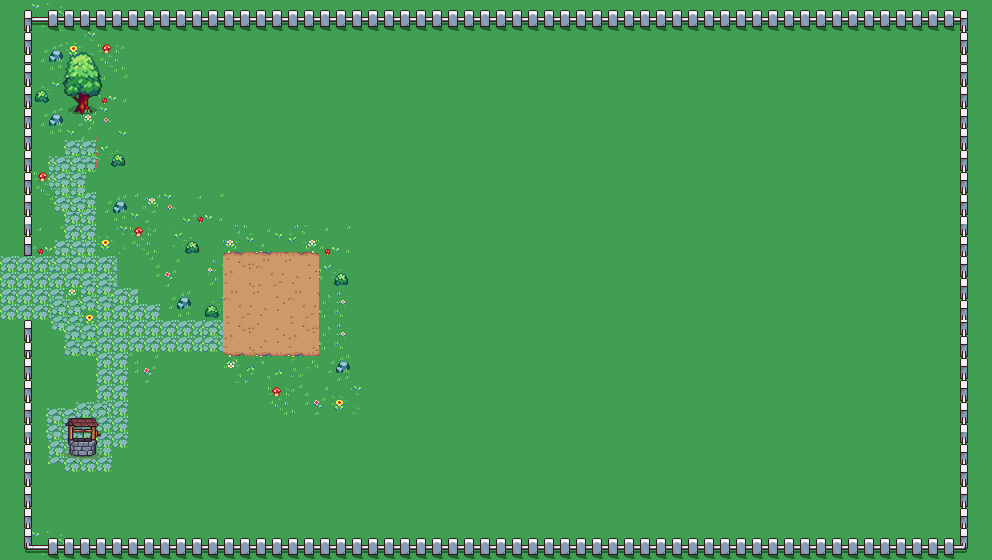
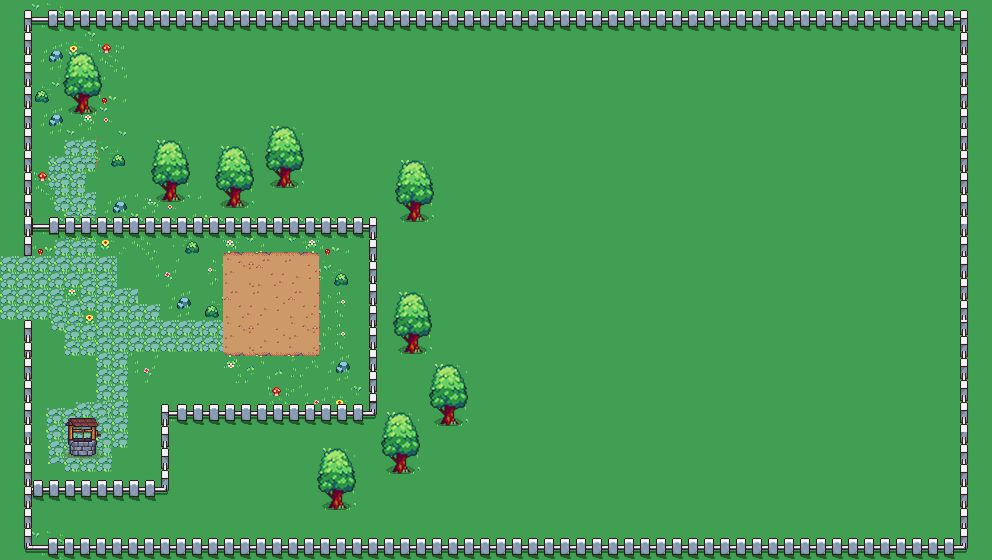
corrigindo mapa da fazenda e colocando colisões

Changed region(s): [[0.0312, 0.2125, 0.4688, 0.9107], [0.375, 0.2732, 0.4375, 0.3946]]

diff --git a/js/OverWorldMap.js b/js/OverWorldMap.js
@@ -1646,6 +1646,93 @@ window.OverworldMaps = {
         // ...restante do mapa...
         walls: {
             //define as coordenadas das colisoes do mapa
+            [utils.asGridCoord(-28,14)] : true,
+            [utils.asGridCoord(-28,13)] : true,
+            [utils.asGridCoord(-27,12)] : true,
+            [utils.asGridCoord(-26,12)] : true,
+            [utils.asGridCoord(-25,12)] : true,
+            [utils.asGridCoord(-24,12)] : true,
+            [utils.asGridCoord(-23,12)] : true,
+            [utils.asGridCoord(-22,12)] : true,
+            [utils.asGridCoord(-21,12)] : true,
+            [utils.asGridCoord(-20,12)] : true,
+            [utils.asGridCoord(-19,12)] : true,
+            [utils.asGridCoord(-18,12)] : true,
+            [utils.asGridCoord(-17,12)] : true,
+            [utils.asGridCoord(-16,12)] : true,
+            [utils.asGridCoord(-15,12)] : true,
+            [utils.asGridCoord(-14,12)] : true,
+            [utils.asGridCoord(-13,12)] : true,
+            [utils.asGridCoord(-12,12)] : true,
+            [utils.asGridCoord(-11,12)] : true,
+            [utils.asGridCoord(-10,12)] : true,
+            [utils.asGridCoord(-9,12)] : true,
+            [utils.asGridCoord(-8,12)] : true,
+            [utils.asGridCoord(-7,12)] : true,
+            [utils.asGridCoord(-6,12)] : true,
+            [utils.asGridCoord(-5,12)] : true,
+
+            [utils.asGridCoord(-6,13)] : true,
+            [utils.asGridCoord(-6,14)] : true,
+            [utils.asGridCoord(-6,15)] : true,
+            [utils.asGridCoord(-6,16)] : true,
+            [utils.asGridCoord(-6,17)] : true,
+            [utils.asGridCoord(-6,18)] : true,
+            [utils.asGridCoord(-6,19)] : true,
+            [utils.asGridCoord(-6,20)] : true,
+            [utils.asGridCoord(-6,21)] : true,
+            [utils.asGridCoord(-6,22)] : true,
+            [utils.asGridCoord(-6,23)] : true,
+            [utils.asGridCoord(-6,24)] : true,
+            [utils.asGridCoord(-6,25)] : true,
+
+            [utils.asGridCoord(-7,24)] : true,
+            [utils.asGridCoord(-8,24)] : true,
+            [utils.asGridCoord(-9,24)] : true,
+            [utils.asGridCoord(-10,24)] : true,
+            [utils.asGridCoord(-11,24)] : true,
+            [utils.asGridCoord(-12,24)] : true,
+            [utils.asGridCoord(-13,24)] : true,
+            [utils.asGridCoord(-14,24)] : true,
+            [utils.asGridCoord(-15,24)] : true,
+            [utils.asGridCoord(-16,24)] : true,
+            [utils.asGridCoord(-17,24)] : true,
+            [utils.asGridCoord(-18,24)] : true,
+            [utils.asGridCoord(-19,24)] : true,
+
+            [utils.asGridCoord(-19,26)] : true,
+            [utils.asGridCoord(-19,27)] : true,
+            [utils.asGridCoord(-19,28)] : true,
+            [utils.asGridCoord(-19,29)] : true,
+
+            [utils.asGridCoord(-20,29)] : true,
+            [utils.asGridCoord(-21,29)] : true,
+            [utils.asGridCoord(-22,29)] : true,
+            [utils.asGridCoord(-23,29)] : true,
+            [utils.asGridCoord(-24,29)] : true,
+            [utils.asGridCoord(-25,29)] : true,
+            [utils.asGridCoord(-26,29)] : true,
+            [utils.asGridCoord(-27,29)] : true,
+            [utils.asGridCoord(-28,29)] : true,
+
+            [utils.asGridCoord(-28,29)] : true,
+            [utils.asGridCoord(-28,28)] : true,
+            [utils.asGridCoord(-28,27)] : true,
+            [utils.asGridCoord(-28,26)] : true,
+            [utils.asGridCoord(-28,25)] : true,
+            [utils.asGridCoord(-28,24)] : true,
+            [utils.asGridCoord(-28,23)] : true,
+            [utils.asGridCoord(-28,22)] : true,
+            [utils.asGridCoord(-28,21)] : true,
+            [utils.asGridCoord(-28,20)] : true,
+            [utils.asGridCoord(-28,19)] : true,
+
+            [utils.asGridCoord(-24,27)] : true,
+            [utils.asGridCoord(-25,27)] : true,
+            [utils.asGridCoord(-24,26)] : true,
+            [utils.asGridCoord(-25,26)] : true,
+            [utils.asGridCoord(-24,25)] : true,
+            [utils.asGridCoord(-25,25)] : true,
         },
         // Espaços em que acontece cutscenes
         cutsceneSpaces: {
